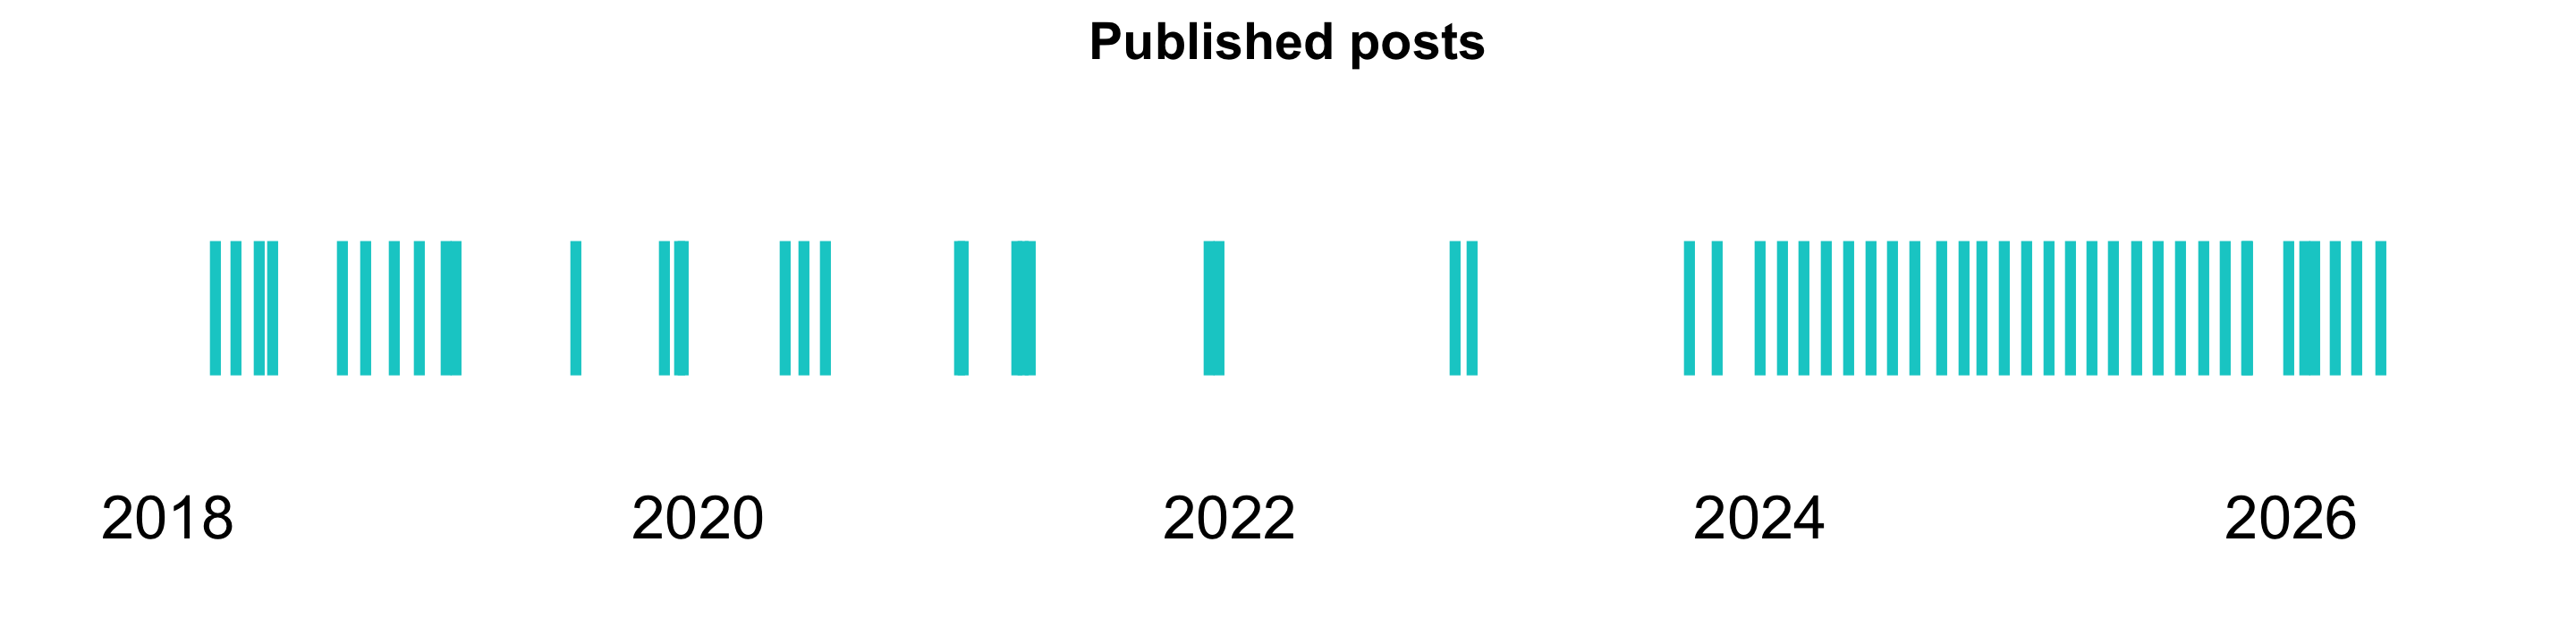
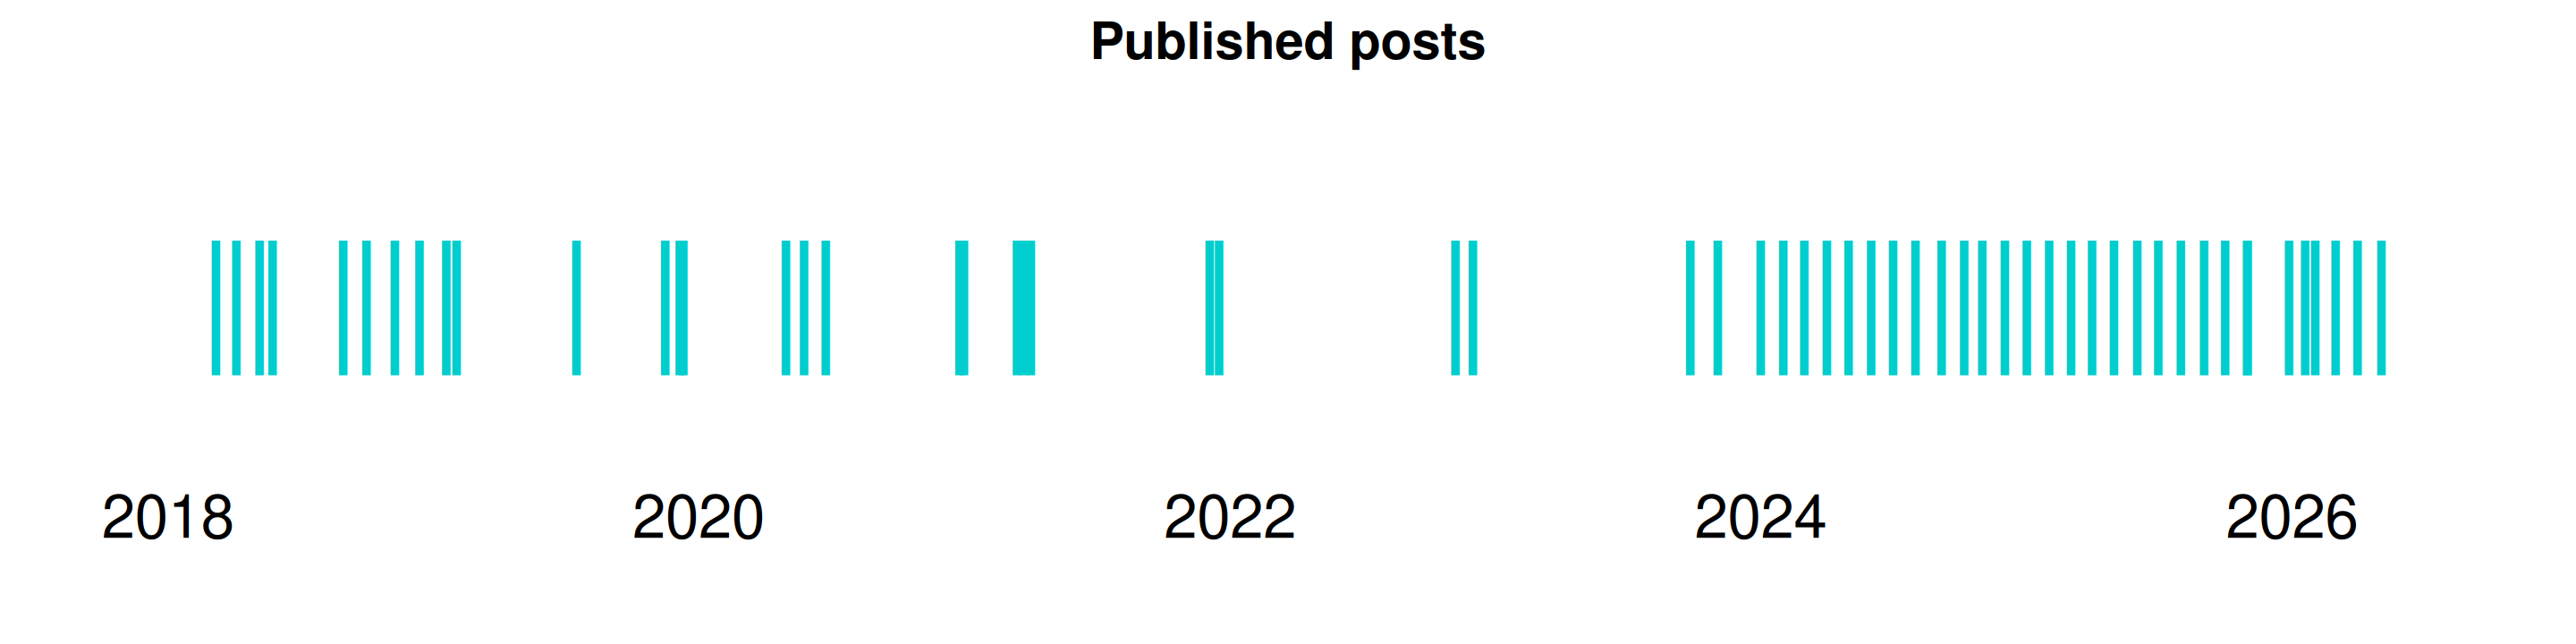
Re-build README.Rmd

diff --git a/README.md b/README.md
@@ -103,4 +103,4 @@ I’d love your feedback in the comments!
 Dray](https://www.rostrum.blog/2021/04/14/gha-readme/) and [Piping Hot
 Data](https://github.com/shannonpileggi/pipinghotdata_distill/blob/master/README.Rmd).*
 
-*Updated 2026-05-02 19:54:27.944015*
+*Updated 2026-05-02 17:56:45.931403*